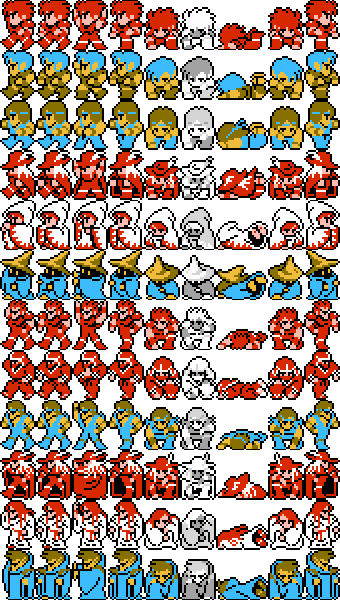
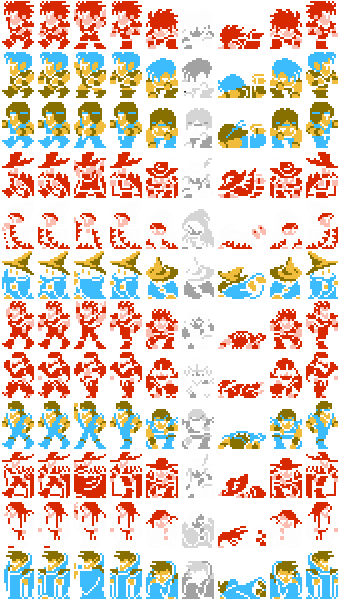
- fix char sheet to remove all black colors so char sprites are transparent - add sprite sheets for coneria castle and temple of fiends - creating a char and entering their name now uses the correct char class - menu debugging works again - test chars are no longer created by default

Changed region(s): [[0.0, 0.0, 1.0, 1.0]]

diff --git a/js/debug/menus.js b/js/debug/menus.js
@@ -1,21 +1,23 @@
-var MenuHelper = (function() {
-  var self = this;
+define(
+/* DebugMenu */
+["cursor", "constants/cursor", "events", "menus", "party", "constants/party"],
+function(Cursor, CursorConstants, Event, Menus, Party, PartyConstants) {
   
-  self.event = function($target) {
-    if ($target.is(".load")) { 
-      Party.createTestChars(); 
-      Party.lightOrb("earth");
-      Party.lightOrb("fire");
-      Menus.Char.load(); 
-    } 
-    else if ($target.is(".armor")) { Party.createTestChars(); Cursors.lookup(Cursors.CHAR_MENU).armor(); } 
-    else if ($target.is(".weapon")) { Party.createTestChars(); Cursors.lookup(Cursors.CHAR_MENU).weapon(); } 
-    else if ($target.is(".magic")) { Party.createTestChars(); Cursors.lookup(Cursors.CHAR_MENU).magic(); } 
-    else if ($target.is(".item")) { Party.createTestChars(); Cursors.lookup(Cursors.CHAR_MENU).item(); } 
-    else if ($target.is(".status")) { Party.createTestChars(); Cursors.lookup(Cursors.CHAR_MENU).status(); }
-    else if ($target.is(".newChar")) { Party.switchView("#newChar"); Cursors.lookup(Cursors.NEW_CHAR).startListening(); }
-    else if ($target.is(".newCharName")) { Party.switchView("#newCharName"); Cursors.lookup(Cursors.NEW_CHAR_NAME).startListening(); }
+  return {
+    event : function($target) {
+      if ($target.is(".load")) { 
+        Party.createTestChars(); 
+        Party.lightOrb("earth");
+        Party.lightOrb("fire");
+        Menus.Char.load(Party.getChars(), Party.getLitOrbs(), Party.getGold()); 
+      } 
+      else if ($target.is(".armor")) { Party.createTestChars(); Cursor.lookup(CursorConstants.CHAR_MENU).armor(); } 
+      else if ($target.is(".weapon")) { Party.createTestChars(); Cursor.lookup(CursorConstants.CHAR_MENU).weapon(); } 
+      else if ($target.is(".magic")) { Party.createTestChars(); Cursor.lookup(CursorConstants.CHAR_MENU).magic(); } 
+      else if ($target.is(".item")) { Party.createTestChars(); Cursor.lookup(CursorConstants.CHAR_MENU).item(); } 
+      else if ($target.is(".status")) { Party.createTestChars(); Cursor.lookup(CursorConstants.CHAR_MENU).status(); }
+      else if ($target.is(".newChar")) {  Event.transmit(Event.Types.SwitchView, PartyConstants.Views.NEW_CHAR); Event.transmit(Event.Types.CursorStart, CursorConstants.NEW_CHAR); }
+      else if ($target.is(".newCharName")) { Event.transmit(Event.Types.SwitchView, PartyConstants.Views.NEW_CHAR_NAME); Event.transmit(Event.Types.CursorStart, CursorConstants.NEW_CHAR_NAME); }
+    }
   };
-  
-  return this;
-}).call({});
+});

diff --git a/js/cursors/cursor-new-char-name.js b/js/cursors/cursor-new-char-name.js
@@ -1,13 +1,13 @@
 define(
 /* CursorNewCharName */ 
-["jquery", "cursor", "events", "logger", "messages", "menus", "party", "constants/cursor", "constants/party"],
-function($, Cursor, Event, Logger, Message, Menus, Party, CursorConstants, PartyConstants) {
+["jquery", "character-class", "cursor", "events", "logger", "messages", "menus", "party", "constants/cursor", "constants/party"],
+function($, CharacterClass, Cursor, Event, Logger, Message, Menus, Party, CursorConstants, PartyConstants) {
   
   var setup = function() {
     /* -------------------- */
     /* NEW CHAR NAME cursor */
     /* -------------------- */
-    var NewCharNameCursor = function() { this.name = ""; };
+    var NewCharNameCursor = function() { this.name = ""; this.charClass = ""; };
     NewCharNameCursor.prototype = Cursor.create(CursorConstants.NEW_CHAR_NAME).setContainer("#newCharName .letters");
     NewCharNameCursor.prototype.back = function() { 
       this.name = this.name.substr(0, this.name.length - 1); 
@@ -18,8 +18,7 @@ function($, Cursor, Event, Logger, Message, Menus, Party, CursorConstants, Party
     NewCharNameCursor.prototype.next = function() {
       if (this.name.length >= 4) {
         this.clear();
-        // TODO: get the char class from the user selection
-        Party.addChar(Party.createNewChar(this.name, CharacterClass.FIGHTER));
+        Party.addChar(Party.createNewChar(this.name, this.charClass));
         Event.transmit(Event.Types.SwitchView, PartyConstants.Views.NEW_CHAR);
         Event.transmit(Event.Types.CursorStart, CursorConstants.NEW_CHAR, {indexChange:1, name:this.name});
         return false;
@@ -28,7 +27,7 @@ function($, Cursor, Event, Logger, Message, Menus, Party, CursorConstants, Party
       this.name += Menus.NewCharName.getSymbol(this.cursorIndex());
       this.updateName();
     };
-    NewCharNameCursor.prototype.reset = function(fullReset, opt) { this.name = ""; $("#newCharName .name").empty(); }; 
+    NewCharNameCursor.prototype.reset = function(fullReset, opt) { this.name = ""; this.charClass = opt.charClass; $("#newCharName .name").empty(); }; 
     NewCharNameCursor.prototype.updateName = function() { $("#newCharName .name").empty().append(Message.create(this.name)); }; 
     NewCharNameCursor.prototype.xDestinations = function() { 
       var $text = this.$container.find(".text");

diff --git a/js/util.js b/js/util.js
@@ -1,37 +1,32 @@
 define( 
 /* Util */
-(function() {
+function() {
+  return {
+    cssNumericValue : function(s) { return parseInt(s.replace("px", "")); },
   
-  this.cssNumericValue = function(s) {
-    return parseInt(s.replace("px", ""));
-  };
-  
-  this.getCssClass = function(source, where) {
-    
-    var cssClasses = null;
-    if (typeof source === "string") {
-      cssClasses = source.split(" ");
-    } else {
-      cssClasses = source.attr("class").split(" ");
-    }
-    
-    var start = -1, end = -1, index = -1;
-    if (typeof where === "string") {
-      if (where == "last") {
-        return cssClasses[cssClasses.length - 1];
-      } else if (where.indexOf("-") > -1) {
-        var indeces = where.split("-");
-        start = indeces[0];
-        end = indeces[1];
-        return cssClasses.splice(start, end);
+    getCssClass : function(source, where) {
+      var cssClasses = null;
+      if (typeof source === "string") {
+        cssClasses = source.split(" ");
       } else {
-        index = parseInt(where, 10);
+        cssClasses = source.attr("class").split(" ");
       }
+      
+      var start = -1, end = -1, index = -1;
+      if (typeof where === "string") {
+        if (where == "last") {
+          return cssClasses[cssClasses.length - 1];
+        } else if (where.indexOf("-") > -1) {
+          var indeces = where.split("-");
+          start = indeces[0];
+          end = indeces[1];
+          return cssClasses.splice(start, end);
+        } else {
+          index = parseInt(where, 10);
+        }
+      }
+      
+      return cssClasses[index];
     }
-    
-    return cssClasses[index];
   };
-  
-  return this;
-}).call({})
-);
+});

diff --git a/js/debug/init.js b/js/debug/init.js
@@ -1,10 +1,10 @@
 define( 
 /* Debug */
 ["jquery", "./actions", "./battle-animations", "./battle-messages", "./battle-setup", 
- "./coordinates", "./enemies", "./util", "./locationJumper", "./messages", 
+ "./coordinates", "./enemies", "./util", "./locationJumper", "./messages", "./menus",
  "./spell-effects", "./weapon-animations", "./weapons"], 
 function($, DebugActions, DebugBattleAnimations, DebugBattleMessages, DebugBattleSetup, 
-         DebugCoords, DebugEnemies, DebugHelper, DebugLocationJumper, DebugMessages, 
+         DebugCoords, DebugEnemies, DebugHelper, DebugLocationJumper, DebugMessages, DebugMenu, 
          DebugSpellEffects, DebugWeaponAnimations, DebugWeapons) {
   
   var currentMenu = "battleSetup";
@@ -34,6 +34,7 @@ function($, DebugActions, DebugBattleAnimations, DebugBattleMessages, DebugBattl
     $("#debug .weaponAnimations button").click(function(event) { DebugWeaponAnimations.event($(event.target)); });
     $("#debug .animations button").click(function(event) { DebugBattleAnimations.event($(event.target)); });
     $("#debug .actions button").click(function(event) { DebugActions.event($(event.target)); });
+    $("#debug .menus button").click(function(event) { DebugMenu.event($(event.target)); });
 
     $("#debug .menu a." + currentMenu).click();  
   };

diff --git a/js/cursors/cursor-new-char.js b/js/cursors/cursor-new-char.js
@@ -1,7 +1,7 @@
 define(
 /* CursorNewChar */ 
-["jquery", "cursor", "events", "logger", "messages", "menus", "party", "constants/cursor", "constants/party"],
-function($, Cursor, Event, Logger, Message, Menus, Party, CursorConstants, PartyConstants) {
+["jquery", "cursor", "events", "logger", "messages", "menus", "party", "constants/cursor", "constants/party", "util"],
+function($, Cursor, Event, Logger, Message, Menus, Party, CursorConstants, PartyConstants, Util) {
   
   var setup = function() {
     /* --------------- */
@@ -38,8 +38,9 @@ function($, Cursor, Event, Logger, Message, Menus, Party, CursorConstants, Party
         Event.transmit(Event.Types.StartGame);
         return false;
       }
+      var charClass = Util.getCssClass(this.initialCursor().find(".charClass:not(.hidden)").find(".char"), "last")
       Event.transmit(Event.Types.SwitchView, PartyConstants.Views.NEW_CHAR_NAME);
-      Event.transmit(Event.Types.CursorStart, CursorConstants.NEW_CHAR_NAME);
+      Event.transmit(Event.Types.CursorStart, CursorConstants.NEW_CHAR_NAME, {charClass:charClass, charIndex:this.index});
     };
     NewCharCursor.prototype.reset = function(fullReset, opt) {
       if (this.index === undefined) {

diff --git a/js/debug/actions.js b/js/debug/actions.js
@@ -6,7 +6,7 @@ function($, Battle, BattleCommands, BattleConstants, CharacterClass, DebugUtil,
          Encounter, Event, MapConstants, Party, RNG, Spell, Status) {
 
   var go = function(battle, opt) {
-    Event.transmit(Event.Types.StartRound, {battle:battle, commands:opt.commands ? opt.commands : BattleCommands.shuffleCommands()});  
+    Event.transmit(Event.Types.StartRound, {battle:battle, commands:opt && opt.commands ? opt.commands : BattleCommands.shuffleCommands()});  
   };
   
   var newBattle = function(charClasses, enemies, opt) {

diff --git a/js/main.js b/js/main.js
@@ -23,7 +23,7 @@ function($, Animations, BattleEngine, CursorData, Data, Debug,
       
       Debug.init();
       
-      Party.createTestChars();
+      //Party.createTestChars();
     });
   }
 );
